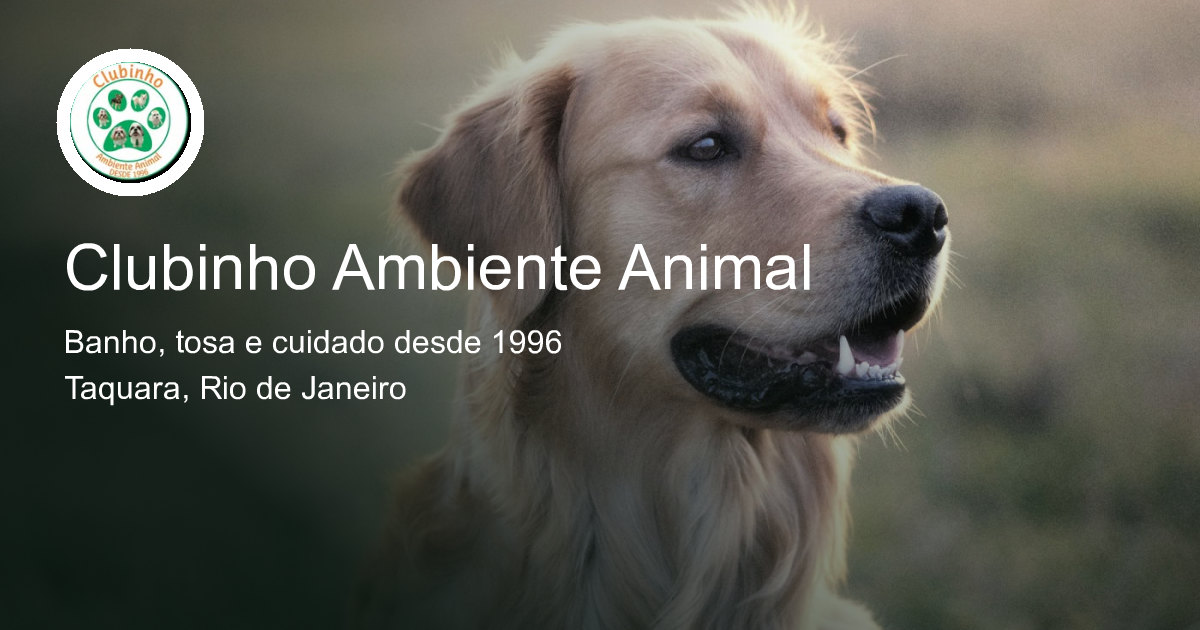
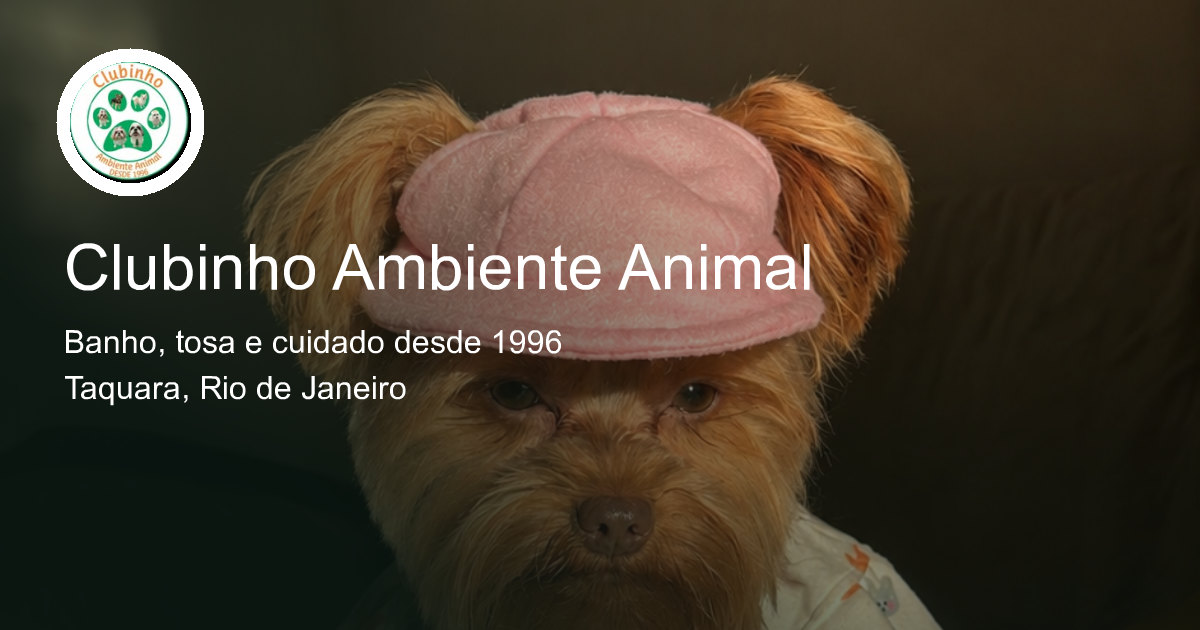
Troca a foto do hero pelo Yorkshire real do Clubinho
Substitui a foto de banco de imagens do golden retriever pela foto
real de um pet atendido, e regenera a imagem de compartilhamento
(Open Graph) com a nova foto.

Claude-Session: https://claude.ai/code/session_019k9YExLtFT8TtRpKsmK5vo

diff --git a/index.html b/index.html
@@ -65,7 +65,7 @@
 <a class="skip" href="#conteudo">Pular para o conteúdo</a>
 <header><a href="#" class="brand" aria-label="Clubinho Ambiente Animal, início"><img class="official-logo" src="assets/logo-original.png" alt="Clubinho Ambiente Animal — desde 1996" width="88" height="88"></a><nav aria-label="Menu principal"><a href="#servicos">Serviços</a><a href="#clubinho">Clubinho do Pet</a><a href="#sobre">Nossa história</a><a href="#contato">Contato</a></nav><a class="button small" href="https://wa.me/5521992985489" target="_blank" rel="noopener noreferrer">Fale pelo WhatsApp <span aria-hidden="true">↗</span></a></header>
 <main id="conteudo">
-<section class="hero wrap"><div class="hero-copy"><p class="eyebrow">CARINHO QUE VEM DE LONGE. DESDE 1996.</p><h1>Seu pet limpinho.<br>Você tranquilo.<br><em>Todo mundo feliz.</em></h1><p class="intro">Banho, tosa e aquele cuidado que seu melhor amigo merece. Uma visita de cada vez ou toda semana, com o Clubinho do Pet.</p><div class="actions"><a class="button" href="#clubinho">Conheça o Clubinho <span aria-hidden="true">↗</span></a><a class="text-link" href="#servicos">Ver serviços</a></div><div class="hero-note"><span class="note-symbol" aria-hidden="true">♡</span><p>Um pet shop de gente que gosta de bicho.<br><strong>Com Jorge Loureiro e muito carinho.</strong></p></div></div><div class="hero-visual"><div id="pet-bubbles" aria-hidden="true"></div><img id="hero-photo" src="assets/pet.jpg" alt="Cachorro de pelagem bem cuidada" width="1400" height="933" fetchpriority="high"><div class="photo-tag">Cuidado de pertinho.<br><strong>Carinho de sobra.</strong></div><div class="round-label"><strong>desde</strong><b>1996</b></div></div></section>
+<section class="hero wrap"><div class="hero-copy"><p class="eyebrow">CARINHO QUE VEM DE LONGE. DESDE 1996.</p><h1>Seu pet limpinho.<br>Você tranquilo.<br><em>Todo mundo feliz.</em></h1><p class="intro">Banho, tosa e aquele cuidado que seu melhor amigo merece. Uma visita de cada vez ou toda semana, com o Clubinho do Pet.</p><div class="actions"><a class="button" href="#clubinho">Conheça o Clubinho <span aria-hidden="true">↗</span></a><a class="text-link" href="#servicos">Ver serviços</a></div><div class="hero-note"><span class="note-symbol" aria-hidden="true">♡</span><p>Um pet shop de gente que gosta de bicho.<br><strong>Com Jorge Loureiro e muito carinho.</strong></p></div></div><div class="hero-visual"><div id="pet-bubbles" aria-hidden="true"></div><img id="hero-photo" src="assets/pet.jpg" alt="Yorkshire com boné e lencinho, pronto pra passear" width="941" height="794" fetchpriority="high"><div class="photo-tag">Cuidado de pertinho.<br><strong>Carinho de sobra.</strong></div><div class="round-label"><strong>desde</strong><b>1996</b></div></div></section>
 <div class="ribbon" aria-label="Nossos cuidados"><span>Banho & tosa</span><i aria-hidden="true">✦</i><span>Higiene</span><i aria-hidden="true">✦</i><span>Clubinho do Pet</span><i aria-hidden="true">✦</i><span>Táxi dog opcional</span></div>
 <section class="services wrap section" id="servicos">
 <div class="section-heading"><div><p class="eyebrow">DO JEITINHO QUE ELE PRECISA</p><h2>Cuidado para cada momento.</h2></div><p>Escolha um serviço avulso ou um plano do Clubinho e converse com a gente para combinar o atendimento do seu pet.</p></div>
